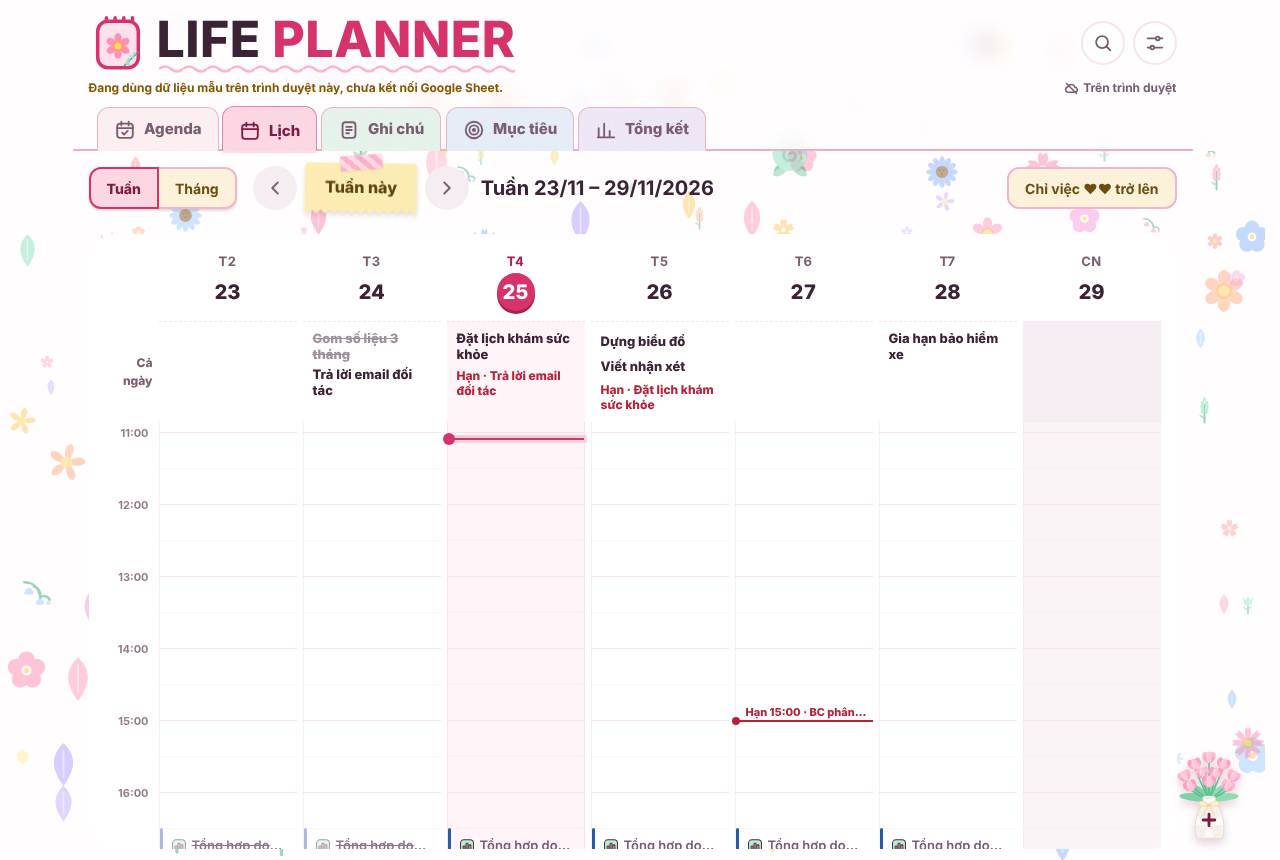
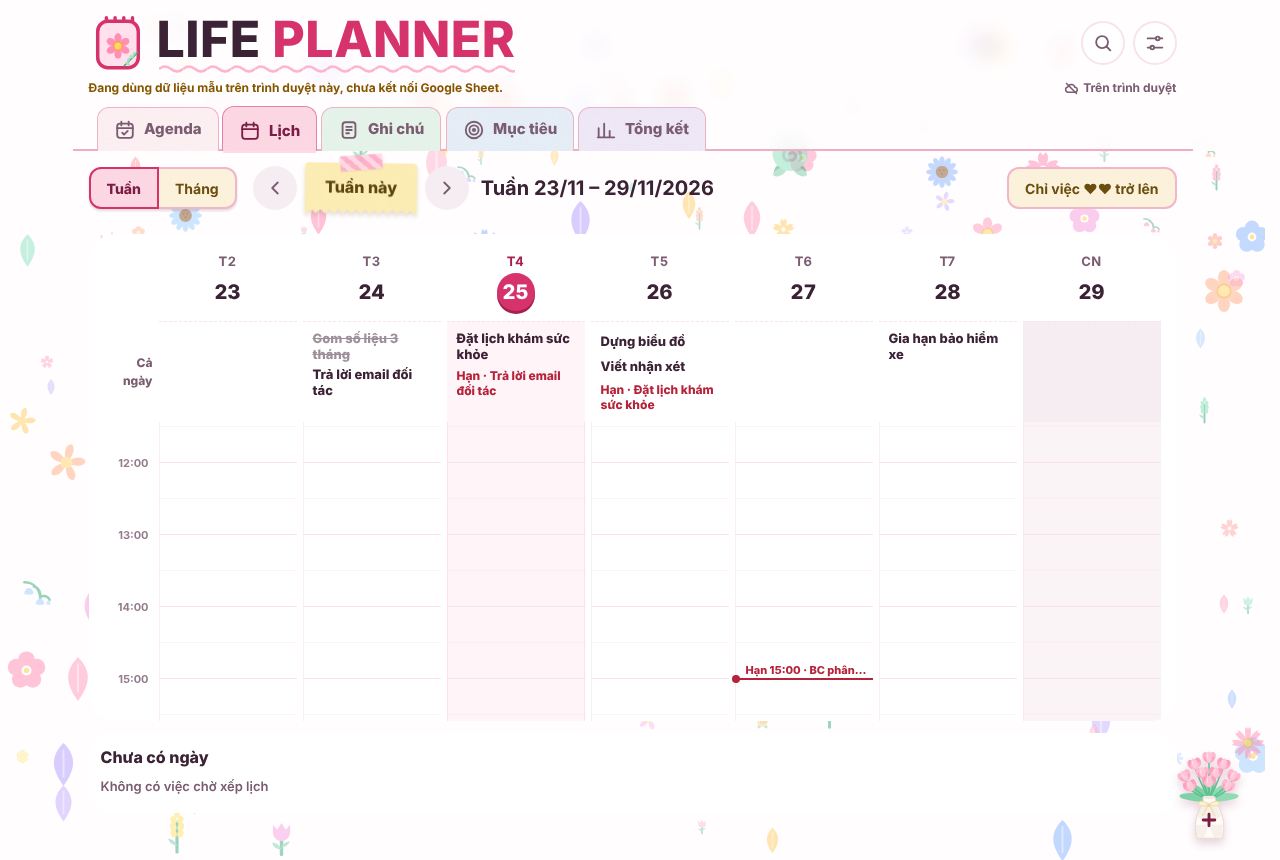
V2 phần 2: Lịch tuần chừa chỗ khu Chưa có ngày để cả trang vừa một màn hình; thêm test
Claude-Session: https://claude.ai/code/session_0149sgxrmtdGBjvftMkDa9zQ

diff --git a/tests-qa/v2/phan-2.js b/tests-qa/v2/phan-2.js
@@ -279,6 +279,8 @@ module.exports = async function (h) {
     A.ok(/Không có việc chờ xếp lịch/.test(await page.locator('.lday-un').innerText()) || (await page.locator('.lday-un .lcard').count()) > 0);
     const o = await page.evaluate(() => { const g = document.querySelector('.lgrid'); return { oy: getComputedStyle(g).overflowY, sh: g.scrollHeight, ch: g.clientHeight, bar: document.querySelector('.lich-bar').getBoundingClientRect().bottom, all: document.querySelector('.lallday').getBoundingClientRect().bottom }; });
     A.ok(o.oy === 'auto' && o.sh > o.ch && o.bar < 860 && o.all < 860, JSON.stringify(o));
+    const ph = await page.evaluate(() => ({ sh: document.documentElement.scrollHeight, ih: window.innerHeight }));
+    A.ok(ph.sh <= ph.ih + 1, 'trang không được cuộn khi mở Lịch tuần: ' + JSON.stringify(ph));
     const t = await (await h.open({ w: 1280, hash: '#/lich?view=thang&date=2026-11-25' })).locator('[data-imp]').innerText();
     A.strictEqual(t.trim(), 'Chỉ việc ♥♥ trở lên');
   });

diff --git a/src/v2/js/views/lich-tuan.js b/src/v2/js/views/lich-tuan.js
@@ -239,7 +239,10 @@ LP.lich = (function () {
   function fitGrid() {
     var g = st.el && st.el.querySelector('.lgrid'); if (!g) return;
     var top = g.getBoundingClientRect().top + (window.pageYOffset || 0);
-    g.style.maxHeight = Math.max(320, Math.round(window.innerHeight - top - 12)) + 'px';
+    // Chừa chỗ cho khu "Chưa có ngày" bên dưới và phần đệm cuối trang, để cả trang vừa một màn hình
+    var un = st.el.querySelector('.lgrid + .lday-un'), main = g.closest('.main');
+    var below = (un ? un.getBoundingClientRect().height + 12 : 0) + (main ? parseFloat(getComputedStyle(main).paddingBottom) || 0 : 0);
+    g.style.maxHeight = Math.max(320, Math.round(window.innerHeight - top - below)) + 'px';
   }
   // Mở tuần: cuộn trong khung lưới tới giờ hiện tại (vạch Bây giờ ở khoảng 1/3 khung); tuần khác thì tới mục sớm nhất
   function scrollGrid(per, days, nowMin) {
